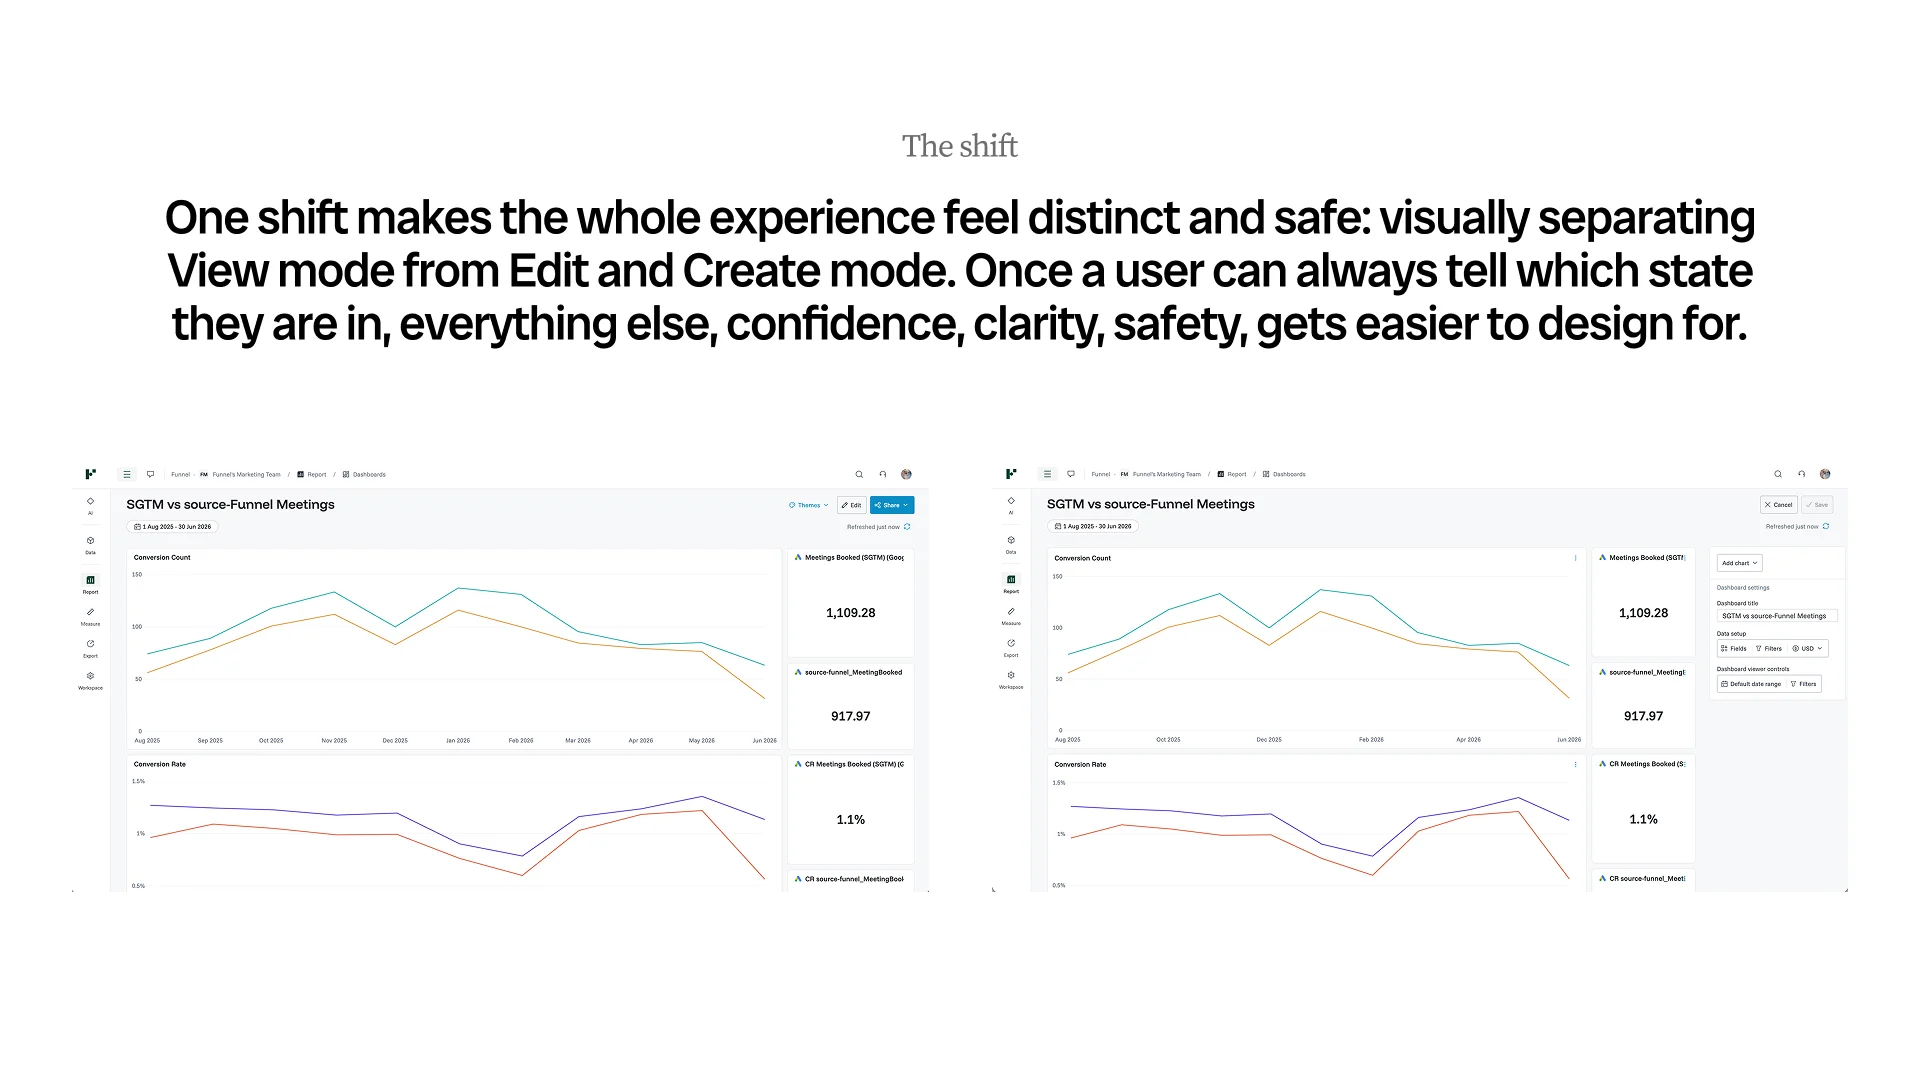
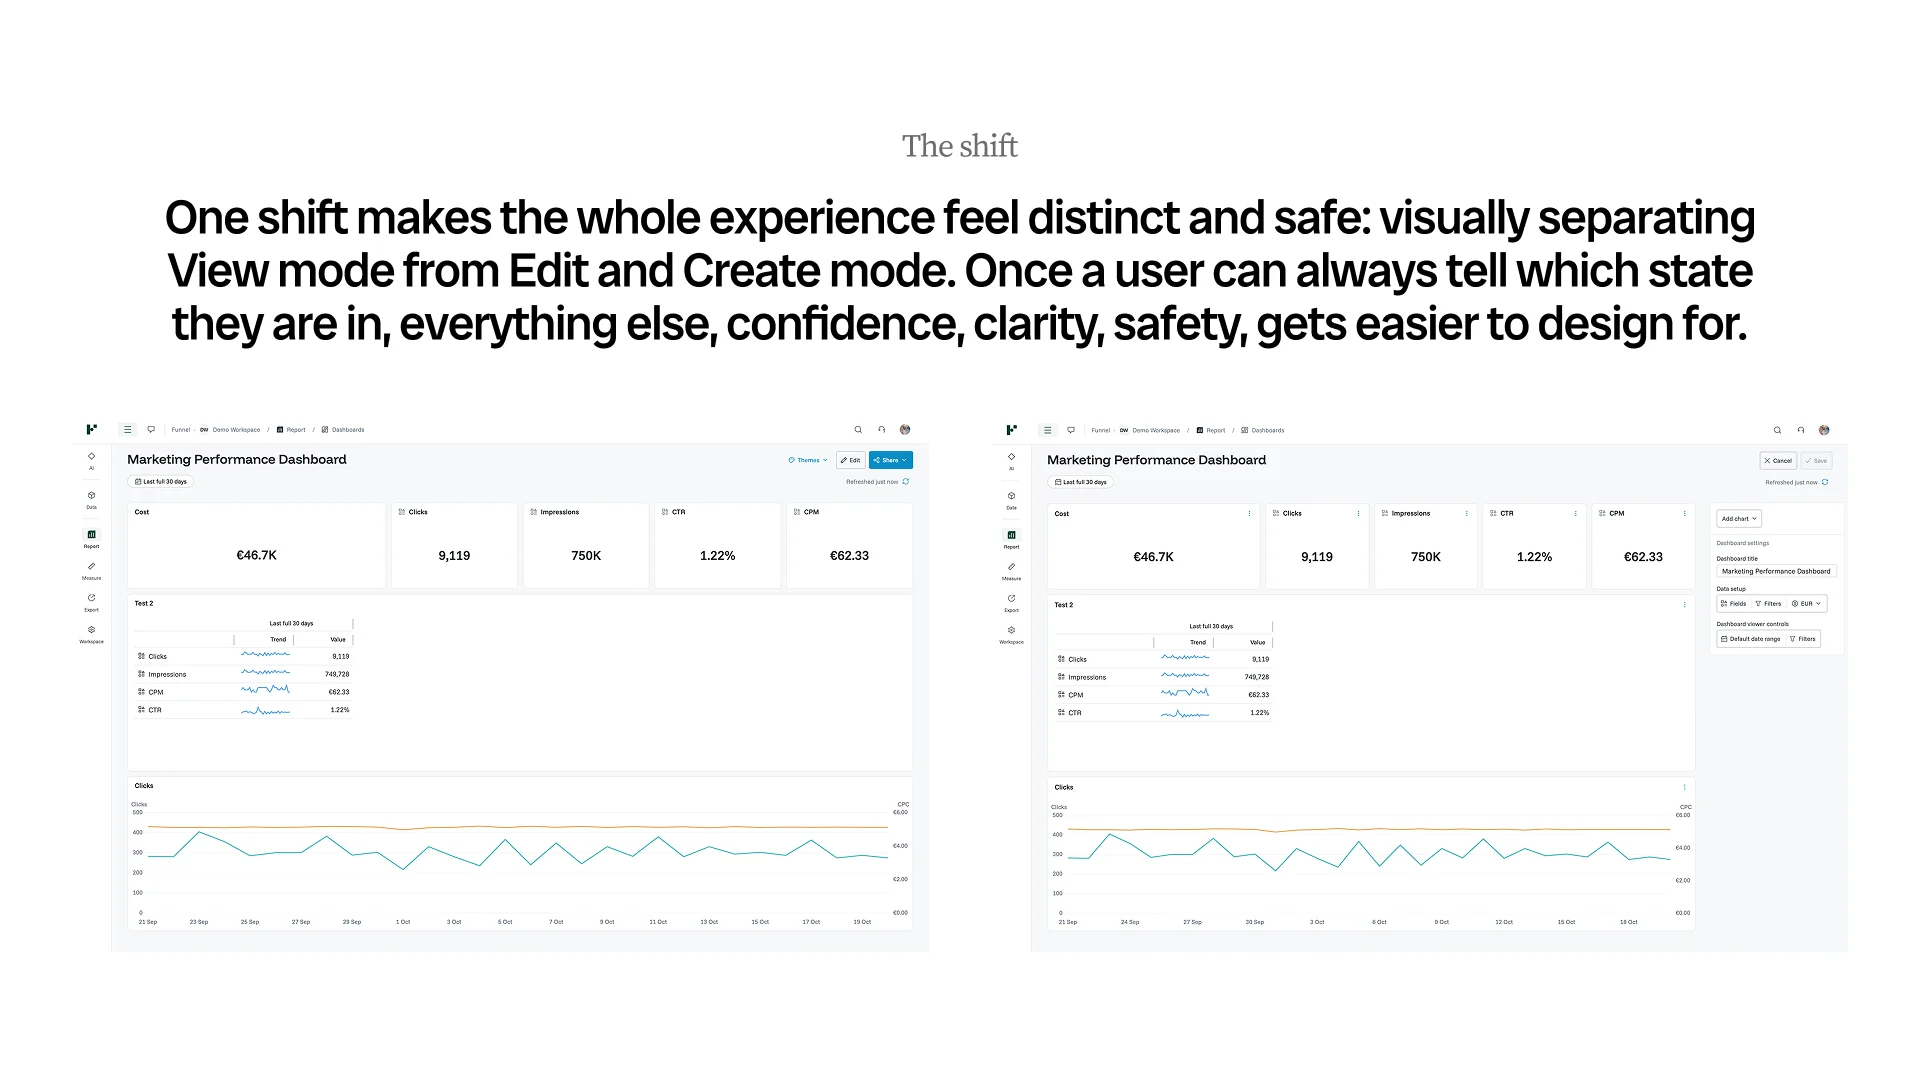
Reporting: demo-data shift slide, clean rounded frames
Claude-Session: https://claude.ai/code/session_01BATPRoECTHL4PcAcJy8jfd

diff --git a/assets/css/style.css b/assets/css/style.css
@@ -320,8 +320,12 @@ a:focus-visible,button:focus-visible,input:focus-visible,[tabindex]:focus-visibl
 .proto-box iframe{position:absolute;top:0;left:0;border:0;transform-origin:0 0;background:#fff}
 .proto .btn{white-space:nowrap;flex:none}
 .proto.bleed{width:min(calc(100vw - 48px),1600px);margin-left:calc(50% - min(calc(50vw - 24px),800px))}
-.proto-box{border:1.5px solid #DADADA;border-radius:16px}
+.proto-box{border:3px solid #E1E1E1;border-radius:16px}
 .proto.bleed .car-bar{padding:0 4px}
 .row.top.split .col-text:first-child{flex:1 1 420px}
 .row.top.split .col-text:last-child{flex:1 1 460px;padding-top:6px}
 @media (max-width:640px){.proto.bleed{width:calc(100vw - 32px);margin-left:calc(50% - 50vw + 16px)}}
+/* clean frames (opt-in per case study) */
+.clean .fig{padding:0;border:3px solid #E1E1E1;border-radius:16px;overflow:hidden;background:#fff}
+.clean .fig > .sk.frame{display:none}
+.clean .car .fig{border-radius:16px}

diff --git a/assets/js/content.js b/assets/js/content.js
@@ -139,6 +139,7 @@ window.SITE = {
       tags: ["AI", "Data visualization", "Redesign"],
       thumb: { src: "", label: "Thumbnail · 4:3" },
       layout: "split",
+      frames: "clean",
       title: "Marketing Reporting.",
       subtitle: "Rethinking how people build dashboards, with AI and on their own.",
       context: ["Funnel", "2026, in progress", "Lead designer on Reporting", "1 PM · 3 engineers"],

diff --git a/assets/js/site.js b/assets/js/site.js
@@ -321,7 +321,7 @@
     var c = list[idx], nx = list[(idx + 1) % list.length];
     document.title = c.name + ' · ' + S.name;
     function render() {
-      main.className = 'wrap';
+      main.className = 'wrap' + (c.frames === 'clean' ? ' clean' : '');
       var n = 0;
       var body = c.sections.map(function (s) {
         if (s.type === 'image') return fig(s.image, 'wide');
